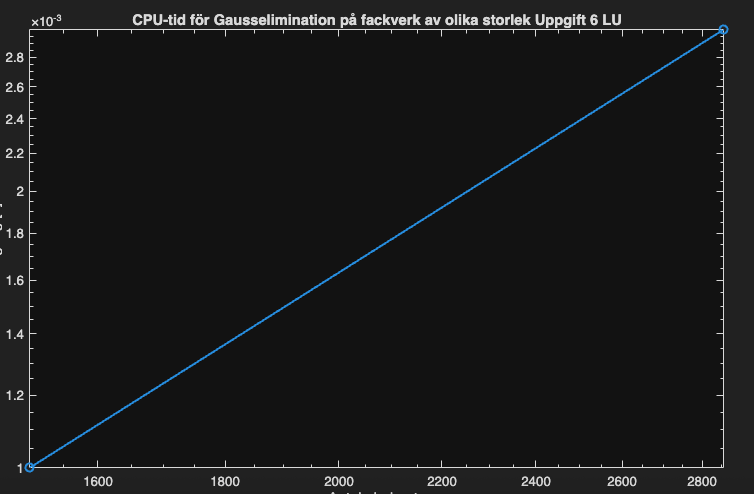
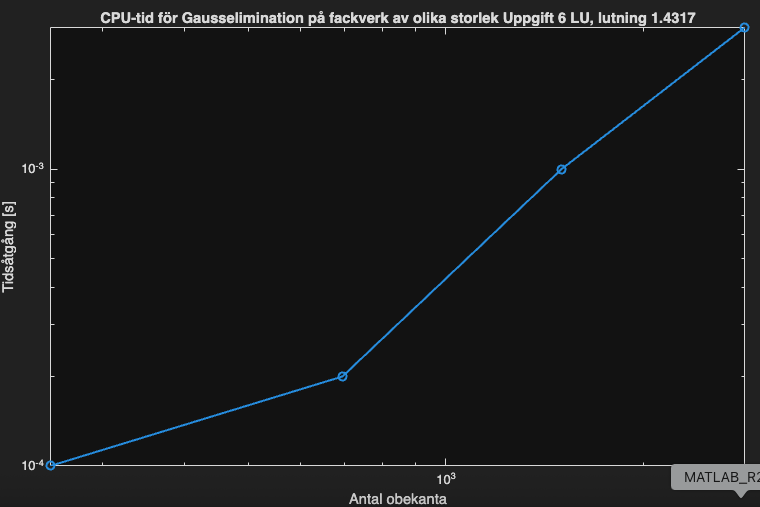
bild upg6LU

diff --git a/labb1-LinjarAlgebra-fackverk/uppgift6LU.m b/labb1-LinjarAlgebra-fackverk/uppgift6LU.m
@@ -4,7 +4,7 @@ clear;      % Tar bort alla gamla variabler
 clc;        % Rensar kommandofönstret
 close all   % Stänger alla figurer
 
-n =10; % antal iterationer;
+n =100; % antal iterationer;
 
 % Kran 1
 load('kran1.mat')
@@ -90,14 +90,22 @@ figure;
 loglog(size, tider, 'o-', 'LineWidth', 1.5);
 xlabel('Antal obekanta');
 ylabel('Tidsåtgång [s]');
-title("CPU-tid för Gausselimination på fackverk av olika storlek Uppgift 6 LU");
 
+% Linjen blir ganska rak vilket tyder på att sambandet håller hyfsat bra.
+% Lutningen kan uppskattas med hjälp av polyfit:
+p = polyfit(log(size), log(tider), 1) % 1 betyder linjär passning
+lutning = p(1); % Lutningen är första koefficienten
+fprintf('Uppskattad lutning α = %.2f\n', lutning);   
+title("CPU-tid för Gausselimination på fackverk av olika storlek Uppgift 6 LU, lutning "+lutning);
+
+% Går inte att få fram någon bra lutning, det går för fort
 
 % Med LU faktoriseringen
-%Medeltid kran 1 = 0.0000 s
-%Medeltid kran 2 = 0.0000 s
+%Medeltid kran 1 = 0.0001 s
+%Medeltid kran 2 = 0.0002 s
 %Medeltid kran 3 = 0.0010 s
 %Medeltid kran 4 = 0.0030 s
+
 
 
 % Utan LU faktorisering
